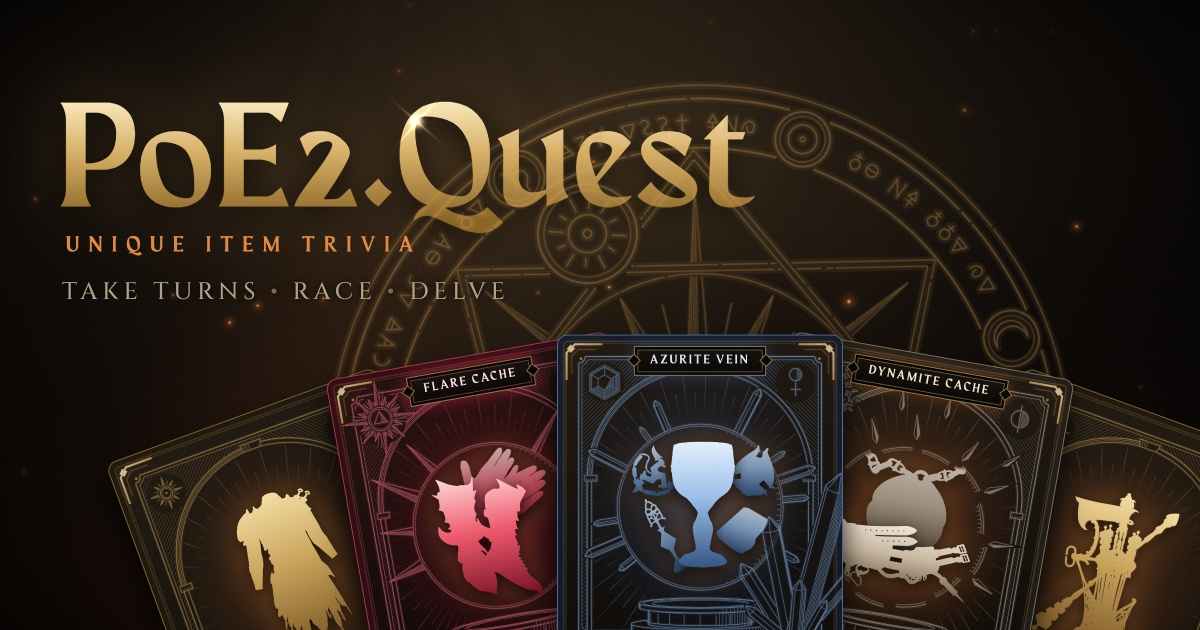
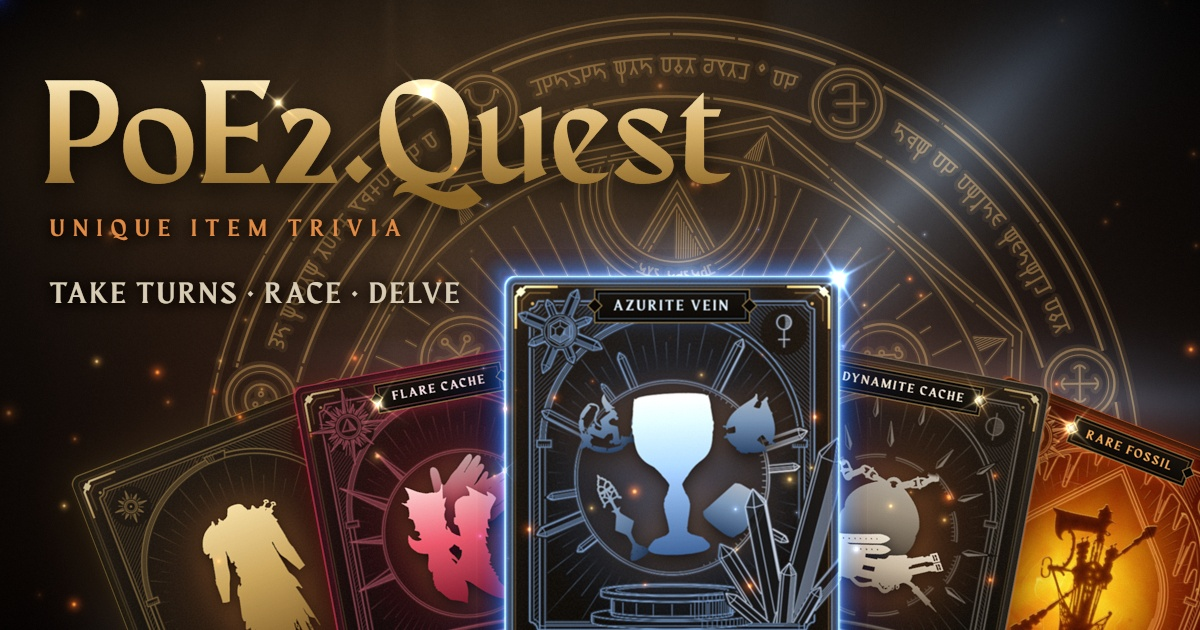
Preview image: the new look, the Azurite Vein raised and lit, a rare fossil
The link preview (og.jpg, ?v=7) redrawn from the live start page at full
fidelity: the title over the moth circle, a hand of five category cards on
one arc, the Azurite Vein in the middle bigger and raised with its WebGL
hover rim, a rare fossil (from #320) in place of the plain Off-Hands card,
the backdrop lit behind the finds, and the site's own effects (rays from
behind the middle card, embers, glints). A soft shadow behind the title and
the small lines keeps them readable. Dithered before encoding: 265 KB,
0.07% banded pixels. Both alt texts describe the new picture.

diff --git a/index.html b/index.html
@@ -24,16 +24,16 @@
     <meta property="og:title" content="PoE2.Quest • Unique Item Trivia" />
     <meta property="og:description" content="Name the unique. Path of Exile 2 item trivia, alone or with up to eleven friends: take turns, race or delve, and a new unique every day. Free, by zoe_arcana." />
     <!-- Bump ?v= whenever og.jpg changes, so link previews drop their cached copy. -->
-    <meta property="og:image" content="https://poe2.quest/og.jpg?v=6" />
+    <meta property="og:image" content="https://poe2.quest/og.jpg?v=7" />
     <meta property="og:image:type" content="image/jpeg" />
     <meta property="og:image:width" content="1200" />
     <meta property="og:image:height" content="630" />
-    <meta property="og:image:alt" content="PoE2.Quest • Unique Item Trivia • Take turns, race, delve: a fanned hand of category cards with the Flare Cache, Azurite Vein and Dynamite Cache finds" />
+    <meta property="og:image:alt" content="PoE2.Quest • Unique Item Trivia • Take turns, race, delve: a fanned hand of category cards before a great rune circle, the Azurite Vein raised and lit in blue between the Flare Cache and Dynamite Cache, a Rare Fossil glowing amber at the edge" />
     <meta name="twitter:card" content="summary_large_image" />
     <meta name="twitter:title" content="PoE2.Quest • Unique Item Trivia" />
     <meta name="twitter:description" content="Name the unique. Path of Exile 2 item trivia, alone or with up to eleven friends." />
-    <meta name="twitter:image" content="https://poe2.quest/og.jpg?v=6" />
-    <meta name="twitter:image:alt" content="PoE2.Quest • Unique Item Trivia • Take turns, race, delve: a fanned hand of category cards with the Flare Cache, Azurite Vein and Dynamite Cache finds" />
+    <meta name="twitter:image" content="https://poe2.quest/og.jpg?v=7" />
+    <meta name="twitter:image:alt" content="PoE2.Quest • Unique Item Trivia • Take turns, race, delve: a fanned hand of category cards before a great rune circle, the Azurite Vein raised and lit in blue between the Flare Cache and Dynamite Cache, a Rare Fossil glowing amber at the edge" />
     <title>PoE2.Quest • Unique Item Trivia</title>
   </head>
   <body>
